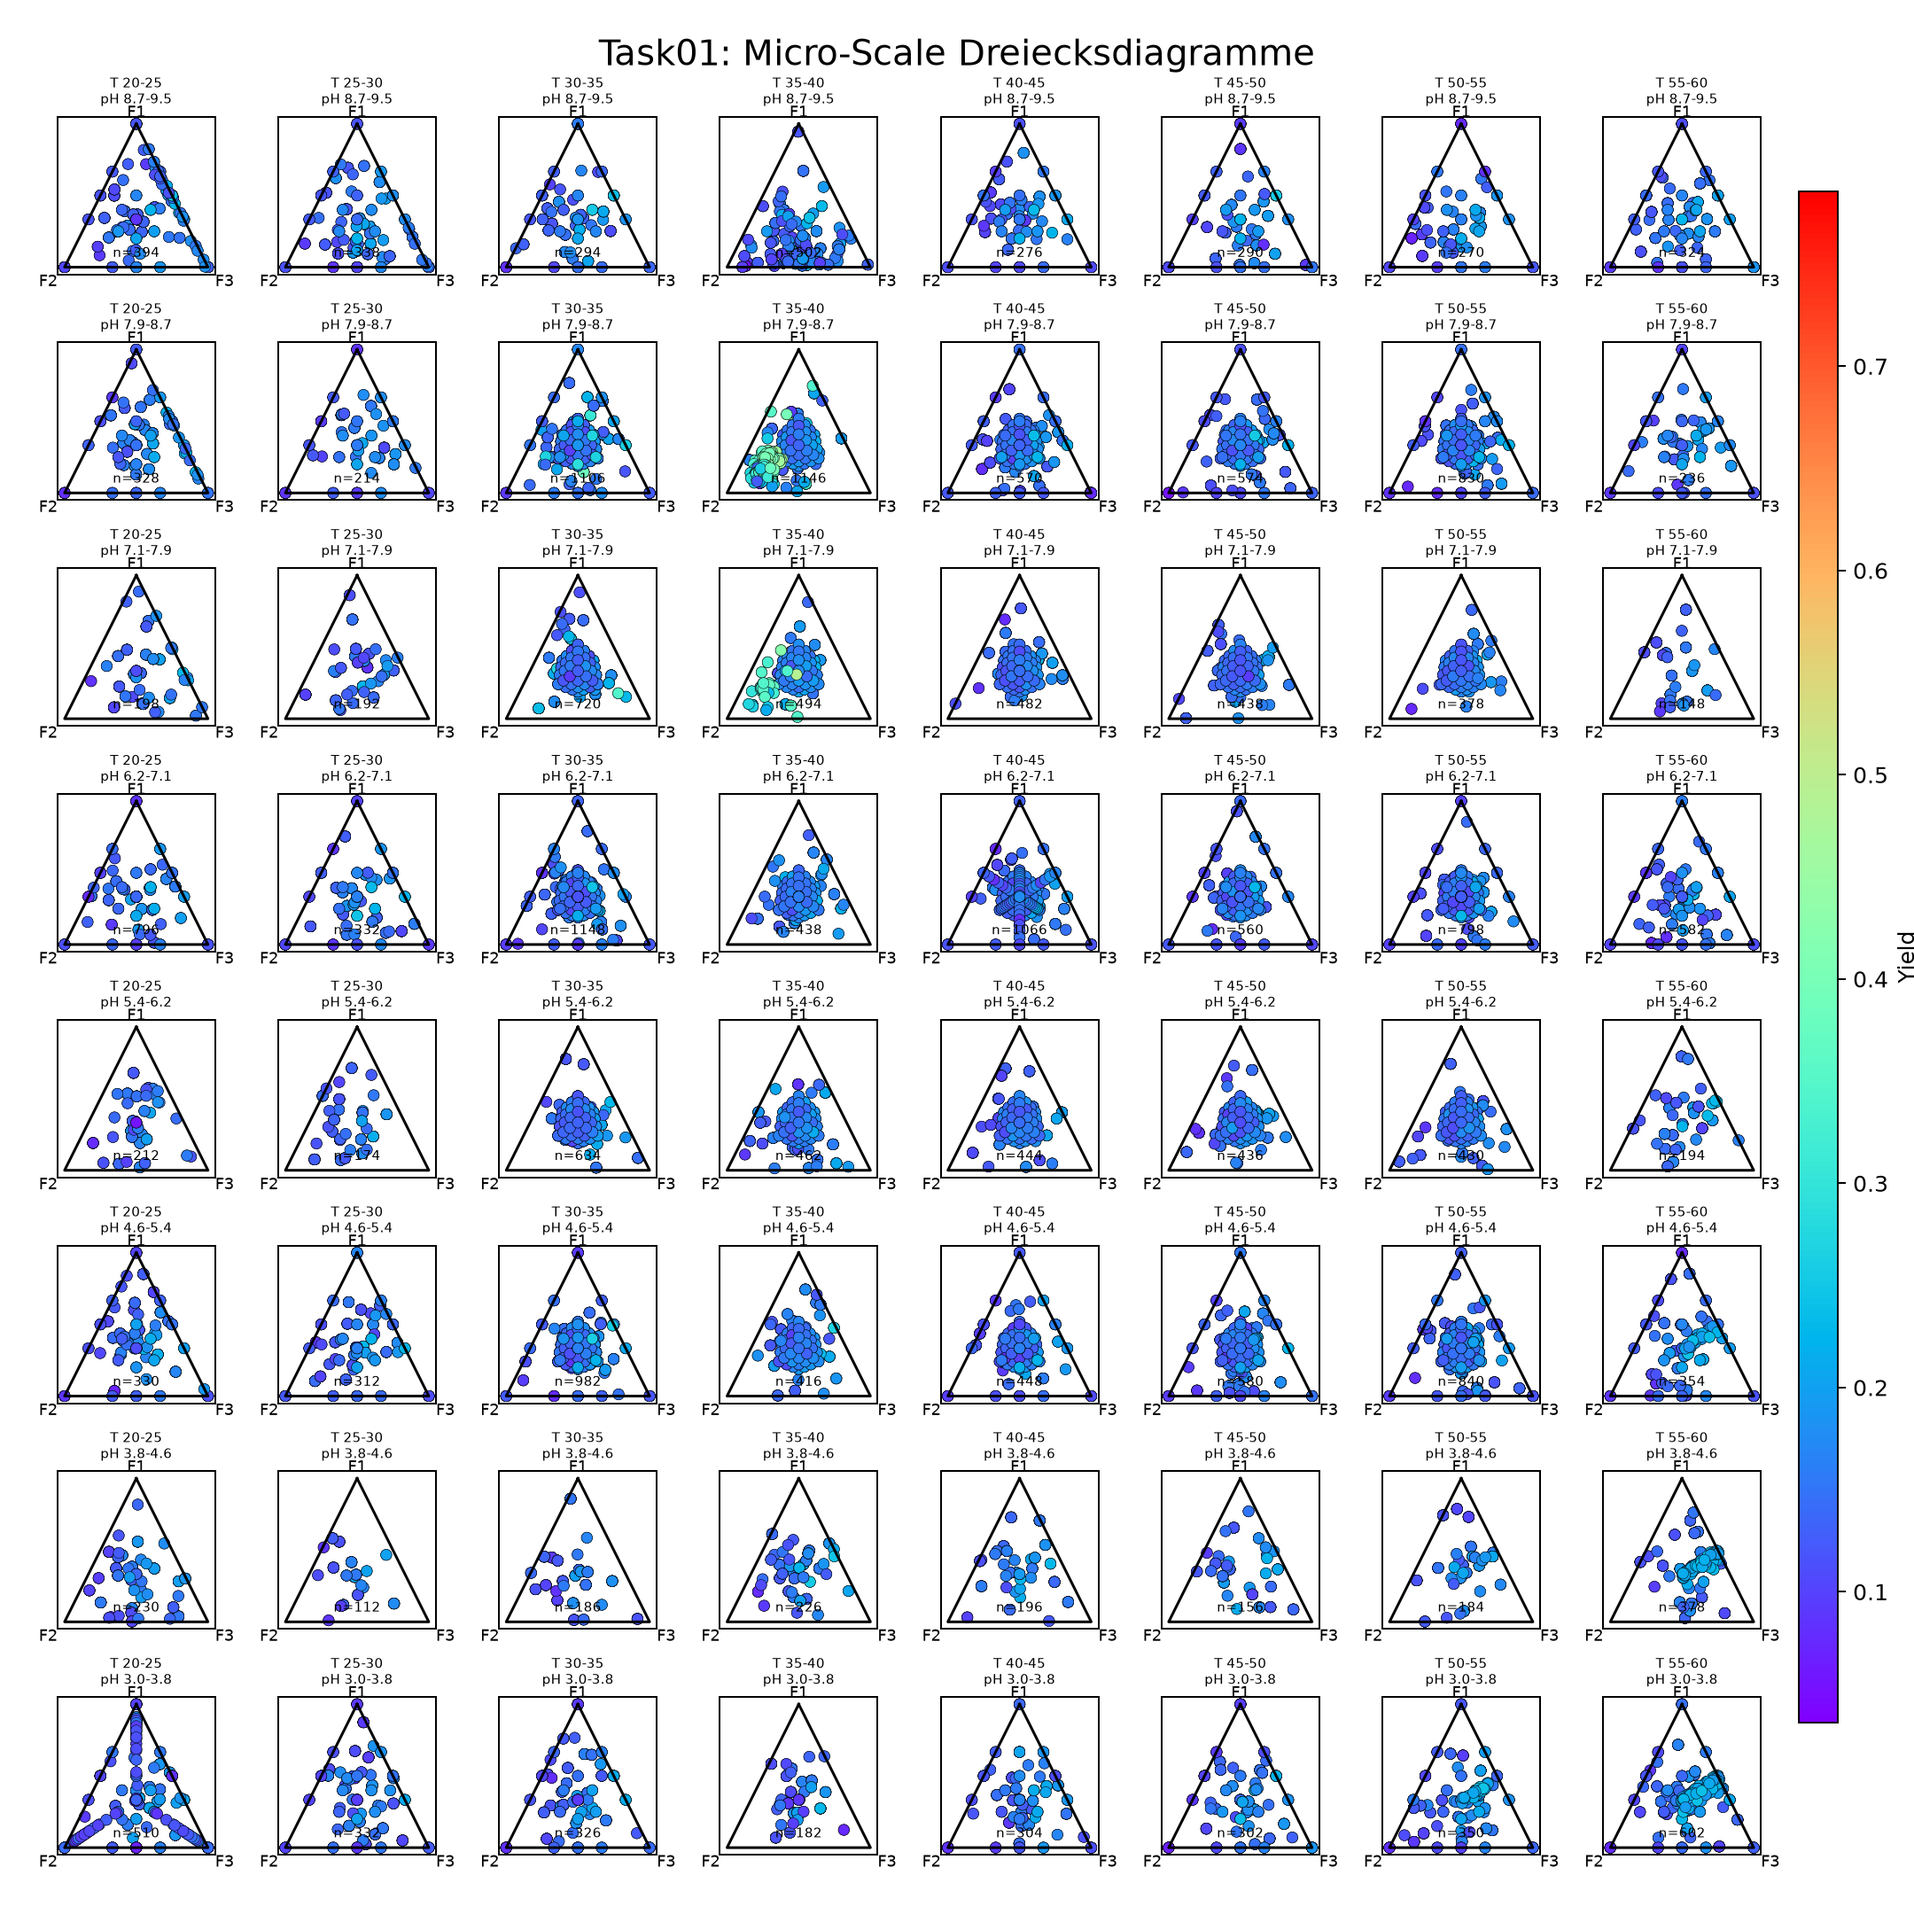
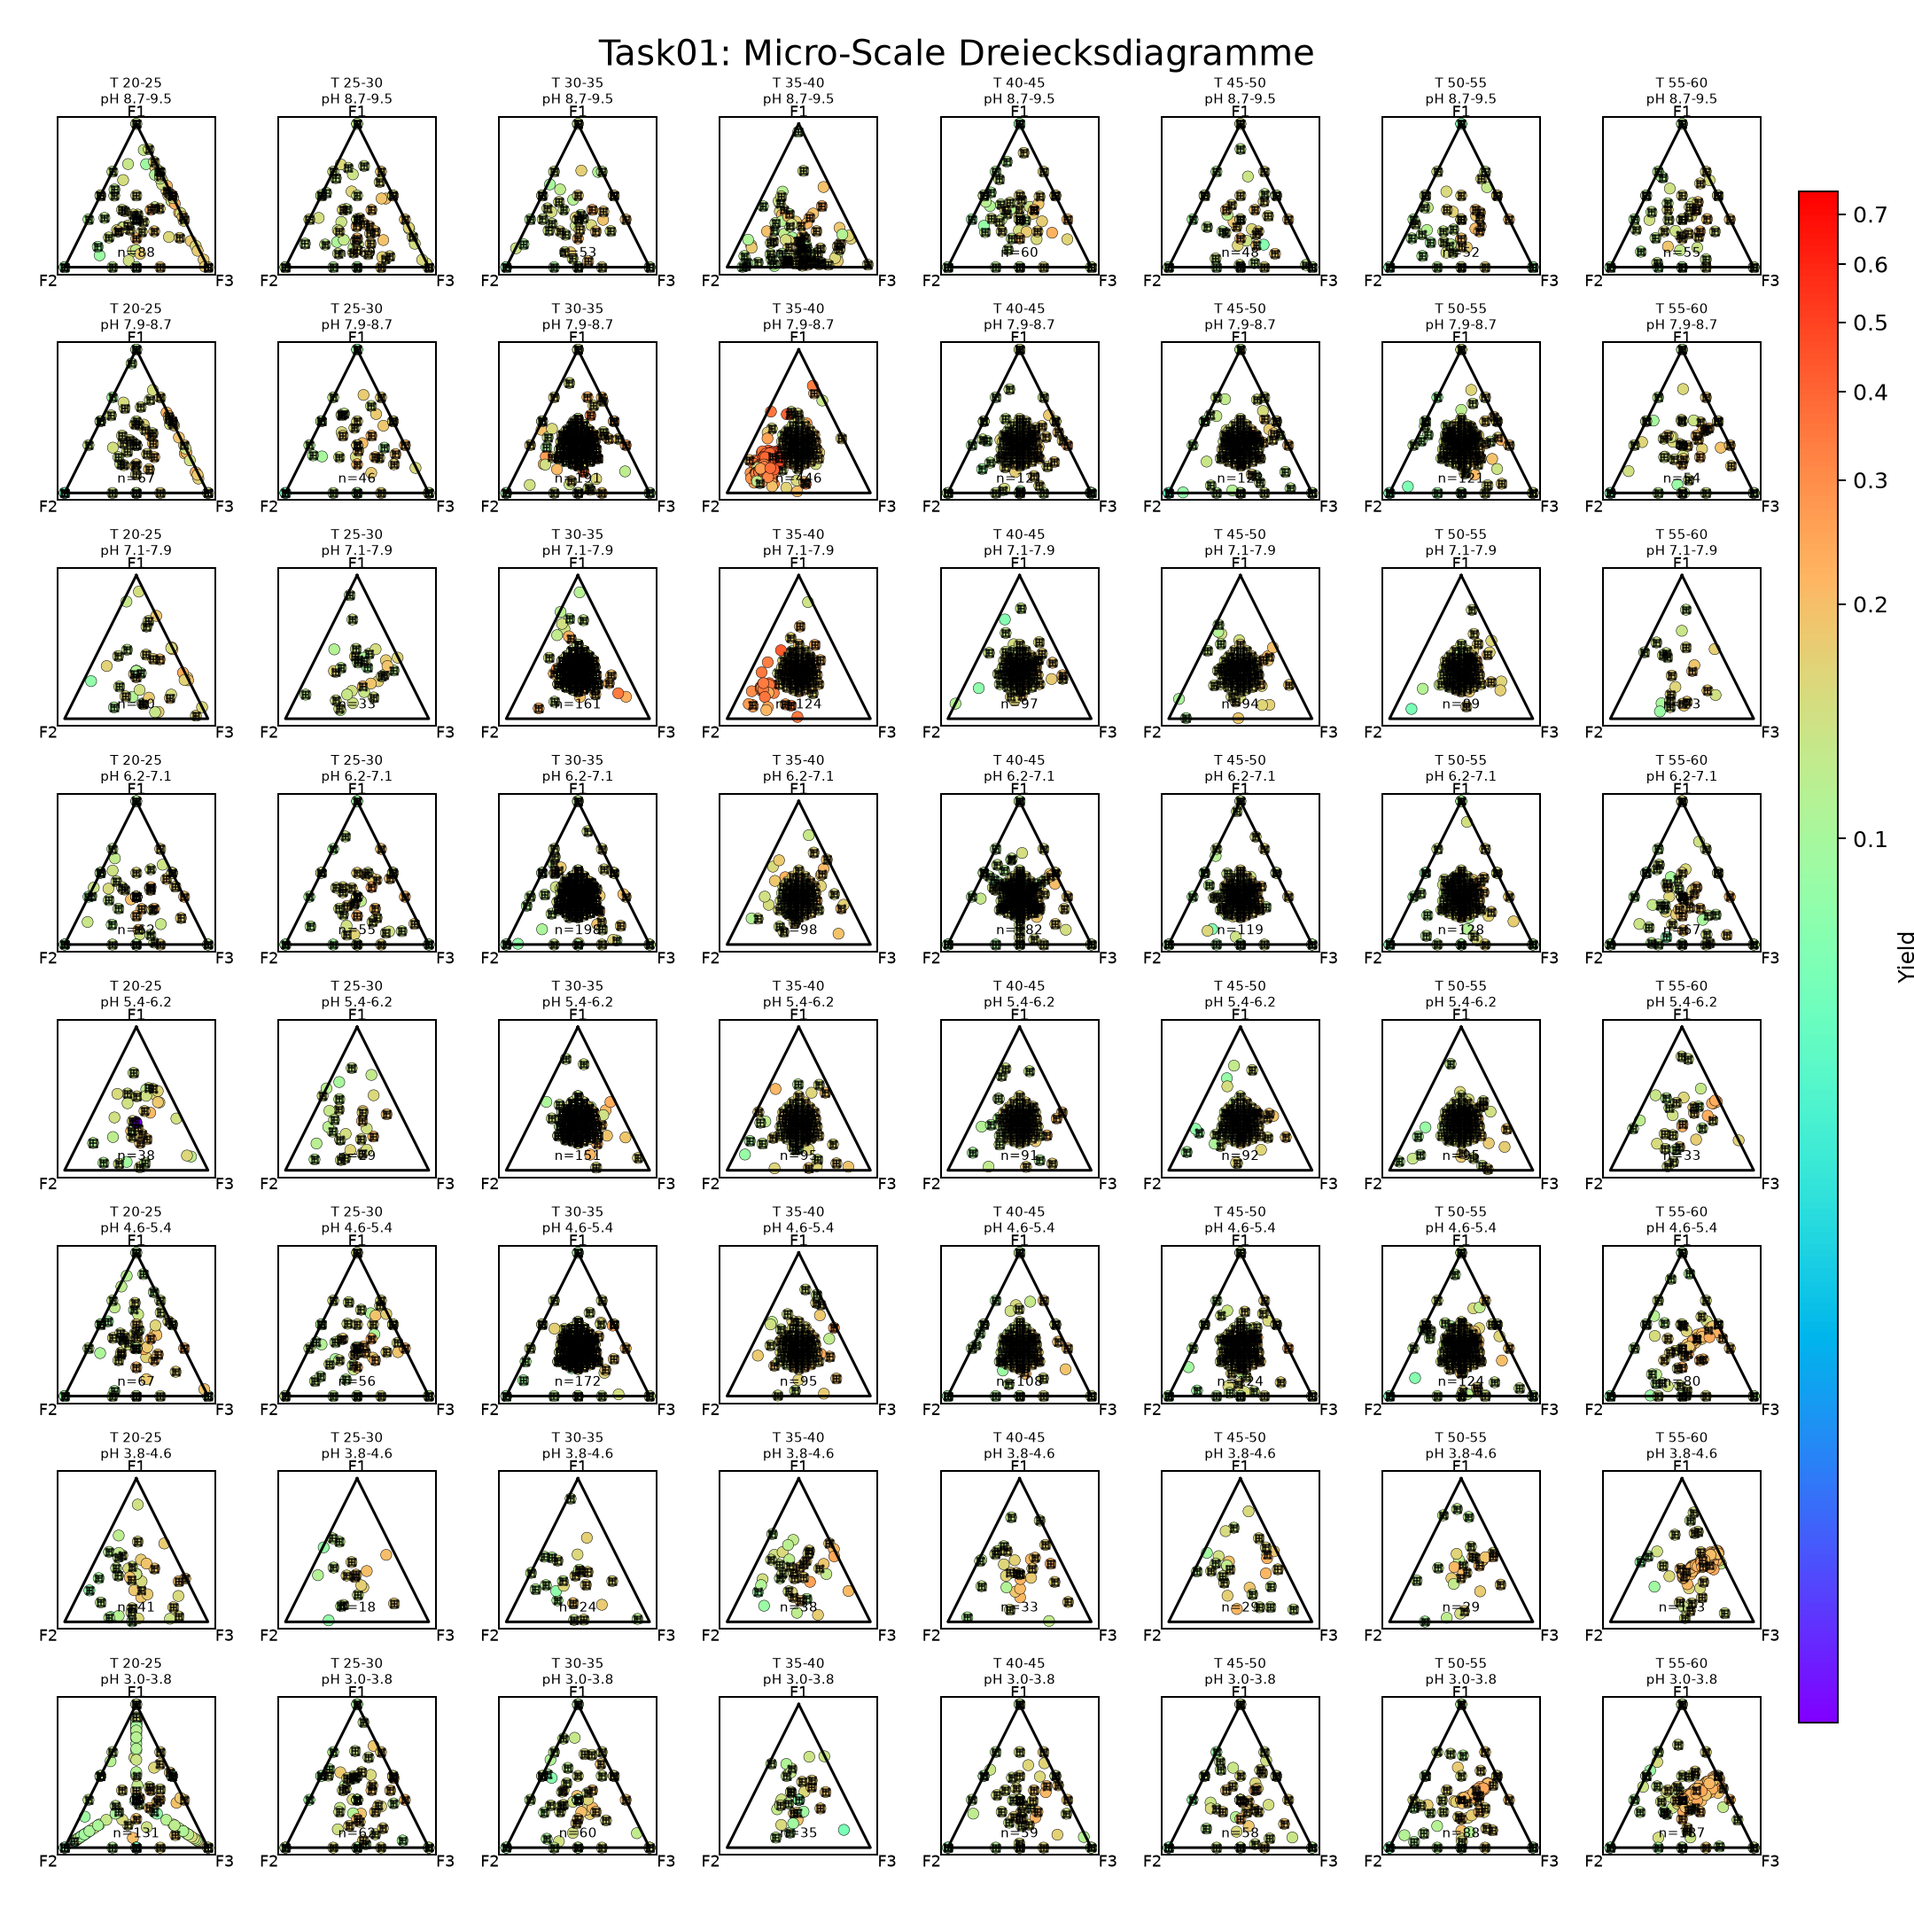
update

diff --git a/Task 1/task01_visualize.py b/Task 1/task01_visualize.py
@@ -1,0 +1,211 @@
+from __future__ import annotations
+
+import json
+
+
+def _parse_result_dict(result_value: object) -> dict | None:
+    if isinstance(result_value, dict):
+        return result_value
+    if not isinstance(result_value, str):
+        return None
+    try:
+        parsed = json.loads(result_value)
+    except json.JSONDecodeError:
+        return None
+    return parsed if isinstance(parsed, dict) else None
+
+
+def _extract_quality(parsed: dict) -> float | None:
+    for key in ("Y", "y", "yield", "quality", "score"):
+        value = parsed.get(key)
+        if isinstance(value, (int, float)):
+            return float(value)
+    return None
+
+
+def _barycentric_coords(f1: float, f2: float, f3: float) -> tuple[float, float] | None:
+    total = f1 + f2 + f3
+    if total <= 0:
+        return None
+    w1 = f1 / total
+    w3 = f3 / total
+    x = 0.5 * w1 + w3
+    y = w1
+    return x, y
+
+
+def visualize_task01_results(results: list[dict], t_bins: int = 8, ph_bins: int = 8) -> None:
+    """Visualize Task01 samples as a matrix of triangular diagrams.
+
+    The visualization is created in two steps:
+    1. Partition the valid T/pH data points into a grid of bins.
+    2. For each bin, draw a barycentric triangle for the F1/F2/F3 ratios.
+    """
+    try:
+        import matplotlib.pyplot as plt
+        import matplotlib.colors as mcolors  # Hinzugefügt für die Skalierung
+    except ImportError:
+        print("Matplotlib ist nicht installiert. Installiere es mit: pip install matplotlib")
+        return
+
+    valid_samples: list[dict] = []
+    for row in results:
+        if row.get("status") != "ok":
+            continue
+        parsed = _parse_result_dict(row.get("result"))
+        if parsed is None:
+            continue
+        quality = _extract_quality(parsed)
+        if quality is None:
+            continue
+        try:
+            t = float(row["T"])
+            ph = float(row["pH"])
+            f1 = float(row["F1"])
+            f2 = float(row["F2"])
+            f3 = float(row["F3"])
+        except (TypeError, ValueError, KeyError):
+            continue
+        valid_samples.append({
+            "scale": row.get("scale", ""),
+            "T": t,
+            "pH": ph,
+            "F1": f1,
+            "F2": f2,
+            "F3": f3,
+            "quality": quality,
+        })
+
+    if not valid_samples:
+        print("Keine gültigen Messdaten zum Visualisieren gefunden.")
+        return
+
+    print(f"Visualisierung: {len(valid_samples)} valide Datenpunkte gefunden.")
+    scale_counts = {
+        scale: sum(1 for s in valid_samples if s["scale"] == scale)
+        for scale in ["micro", "bench", "pilot"]
+    }
+    print(f"  Punkte pro Scale: micro={scale_counts['micro']}, bench={scale_counts['bench']}, pilot={scale_counts['pilot']}")
+
+    # Bin edges for T and pH
+    t_values = [s["T"] for s in valid_samples]
+    ph_values = [s["pH"] for s in valid_samples]
+    t_min, t_max = min(t_values), max(t_values)
+    ph_min, ph_max = min(ph_values), max(ph_values)
+    if t_min == t_max:
+        t_max = t_min + 1.0
+    if ph_min == ph_max:
+        ph_max = ph_min + 1.0
+
+    t_edges = [t_min + i * (t_max - t_min) / t_bins for i in range(t_bins + 1)]
+    ph_edges = [ph_min + i * (ph_max - ph_min) / ph_bins for i in range(ph_bins + 1)]
+
+    def find_bin_index(value: float, edges: list[float]) -> int:
+        for idx in range(len(edges) - 1):
+            if edges[idx] <= value < edges[idx + 1] or (idx == len(edges) - 2 and value == edges[-1]):
+                return idx
+        return len(edges) - 2
+
+    # Determine quality ranges for each scale separately so each plot gets its own color scale.
+    scale_quality_ranges: dict[str, tuple[float, float] | None] = {}
+    for scale in ["micro", "bench", "pilot"]:
+        quality_values = [s["quality"] for s in valid_samples if s["scale"] == scale]
+        if quality_values:
+            scale_quality_ranges[scale] = (min(quality_values), max(quality_values))
+        else:
+            scale_quality_ranges[scale] = None
+
+    # Create the bin structure once for all scales
+    binned_samples: dict[str, dict[tuple[int, int], list[dict]]] = {"micro": {}, "bench": {}, "pilot": {}}
+    for sample in valid_samples:
+        scale = sample["scale"]
+        if scale not in binned_samples:
+            continue
+        t_idx = find_bin_index(sample["T"], t_edges)
+        ph_idx = find_bin_index(sample["pH"], ph_edges)
+        bin_key = (t_idx, ph_idx)
+        binned_samples[scale].setdefault(bin_key, []).append(sample)
+
+    for scale in ["micro", "bench", "pilot"]:
+        fig, axes = plt.subplots(ph_bins, t_bins, figsize=(12, 12), squeeze=False)
+        fig.suptitle(f"Task01: {scale.capitalize()}-Scale Dreiecksdiagramme", fontsize=16)
+        figure_scatter = None
+        scale_range = scale_quality_ranges[scale]
+        if scale_range is not None:
+            scale_vmin, scale_vmax = scale_range
+        else:
+            scale_vmin, scale_vmax = 0.0, 1.0
+
+        # Hier definieren wir die PowerNorm. Gamma=0.5 zieht die Farbskala 
+        # so auseinander, dass Unterschiede im unteren Bereich deutlicher werden.
+        # Wenn nötig, kannst du gamma auf 0.3 oder 0.4 anpassen, wenn es noch extremer sein soll.
+        norm = mcolors.PowerNorm(gamma=0.01, vmin=scale_vmin, vmax=scale_vmax)
+
+        for ph_idx in range(ph_bins):
+            for t_idx in range(t_bins):
+                ax = axes[ph_bins - 1 - ph_idx][t_idx]
+                bin_key = (t_idx, ph_idx)
+                bin_samples = binned_samples[scale].get(bin_key, [])
+
+                triangle_x = [0.5, 0.0, 1.0, 0.5]
+                triangle_y = [1.0, 0.0, 0.0, 1.0]
+                ax.plot(triangle_x, triangle_y, color="black", linewidth=1.2)
+                ax.text(0.5, 1.02, "F1", ha="center", va="bottom", fontsize=7)
+                ax.text(-0.05, -0.05, "F2", ha="right", va="top", fontsize=7)
+                ax.text(1.05, -0.05, "F3", ha="left", va="top", fontsize=7)
+
+                if bin_samples:
+                    coords = [
+                        (_barycentric_coords(s["F1"], s["F2"], s["F3"]), s["quality"]) for s in bin_samples
+                    ]
+                    coords = [(c, q) for c, q in coords if c is not None]
+                    if coords:
+                        xs, ys = zip(*[c for c, _ in coords])
+                        qualities = [q for _, q in coords]
+                        if figure_scatter is None:
+                            figure_scatter = ax.scatter(
+                                xs,
+                                ys,
+                                c=qualities,
+                                cmap="rainbow",  # Der echte Regenbogen von Lila bis Rot
+                                norm=norm,       # Verwendet unsere gestreckte Skalierung anstatt vmin/vmax
+                                s=25,
+                                edgecolors="black",
+                                linewidths=0.2,
+                            )
+                        else:
+                            ax.scatter(
+                                xs,
+                                ys,
+                                c=qualities,
+                                cmap="rainbow",
+                                norm=norm,
+                                s=25,
+                                edgecolors="black",
+                                linewidths=0.2,
+                            )
+                        ax.text(0.5, 0.05, f"n={len(coords)}", ha="center", va="bottom", fontsize=6, color="black")
+                else:
+                    ax.text(0.5, 0.5, "leer", ha="center", va="center", fontsize=7, color="gray")
+
+                ax.set_xlim(-0.05, 1.05)
+                ax.set_ylim(-0.05, 1.05)
+                ax.set_xticks([])
+                ax.set_yticks([])
+                ax.set_aspect("equal")
+
+                t_lo = t_edges[t_idx]
+                t_hi = t_edges[t_idx + 1]
+                ph_lo = ph_edges[ph_idx]
+                ph_hi = ph_edges[ph_idx + 1]
+                ax.set_title(f"T {t_lo:.0f}-{t_hi:.0f}\npH {ph_lo:.1f}-{ph_hi:.1f}", fontsize=6)
+
+        fig.subplots_adjust(left=0.03, right=0.92, top=0.94, bottom=0.03, hspace=0.4, wspace=0.4)
+
+        if figure_scatter is not None:
+            cax = fig.add_axes([0.94, 0.1, 0.02, 0.8])
+            fig.colorbar(figure_scatter, cax=cax, label="Yield")
+        output_path = f"Task01_visualization_{scale}.png"
+        fig.savefig(output_path, dpi=180)
+        plt.close(fig)
+        print(f"Visualisierung gespeichert in: {output_path}")
